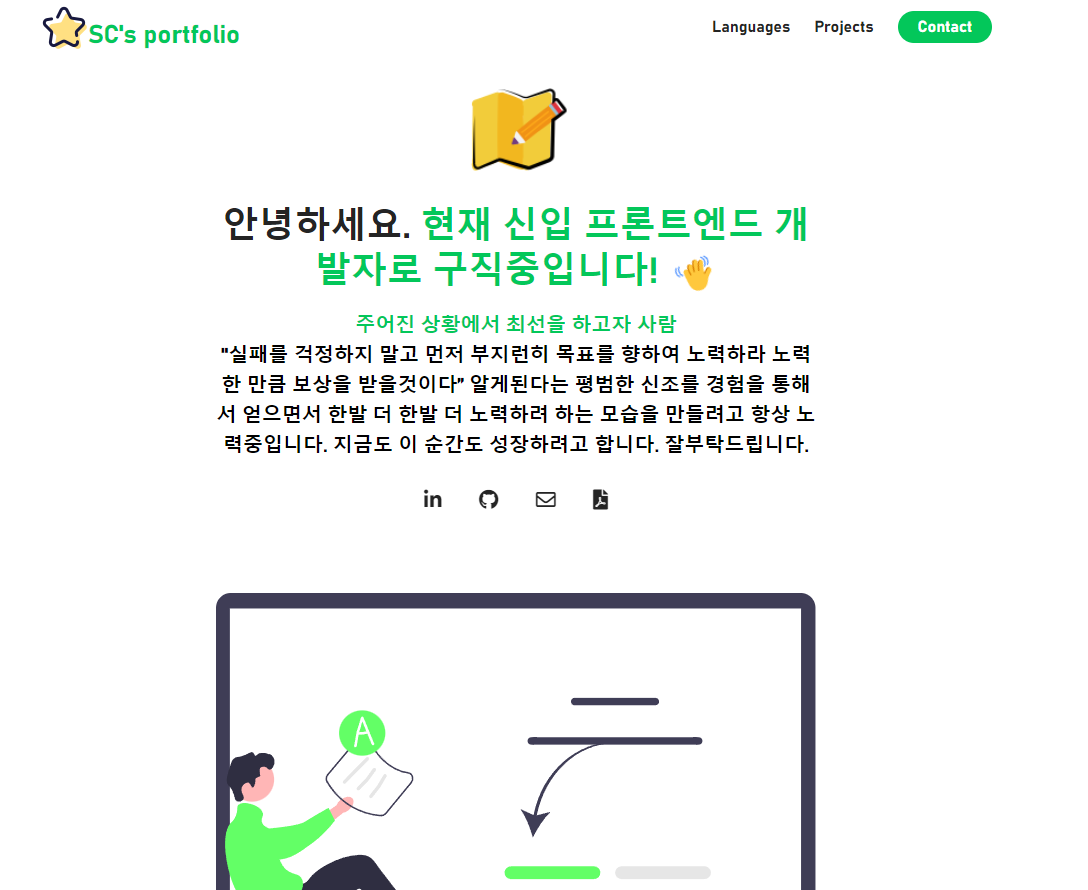
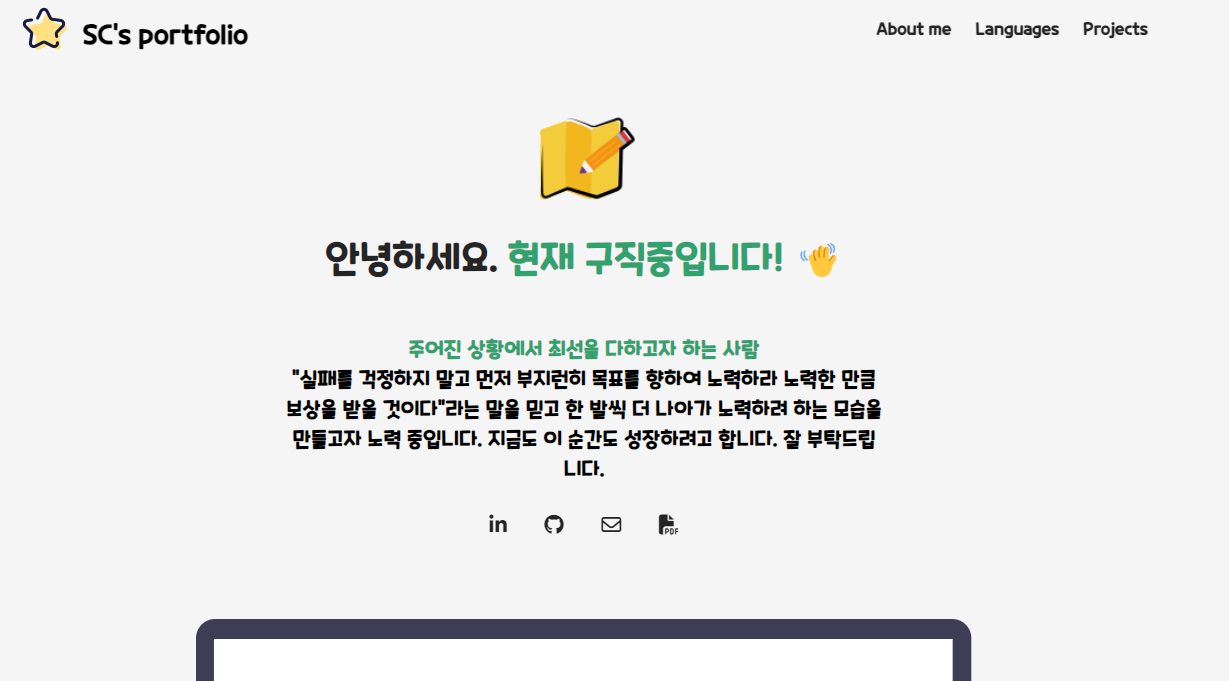
commit_03

diff --git a/index.html b/index.html
@@ -12,18 +12,25 @@
     <title>sc's portfolio</title>
     <link rel="stylesheet" href="./main.css" />
     <script
-      src="https://kit.fontawesome.com/c8e4d183c2.js"
+      src="https://kit.fontawesome.com/acbf87672f.js"
       crossorigin="anonymous"
     ></script>
   </head>
   <body>
-    <section id="about-me">
-      <nav>
+    <div class="header">
+      <nav class="navbar">
         <div class="personal__logo">
-          <img class="nav_logo" src="assets/icons/icons8-star.png" alt="" />SC's
-          portfolio
+          <img class="nav_logo" src="assets/icons/icons8-star.png" alt="" />
+          <span>SC's portfolio</span>
         </div>
         <ul class="nav__link--list">
+          <li class="nav__link">
+            <a
+              href="#about-me"
+              class="nav__link--anchor link__hover-effect link__hover-effect--black"
+              >About me</a
+            >
+          </li>
           <li class="nav__link">
             <a
               href="#languages"
@@ -38,15 +45,14 @@
               >Projects</a
             >
           </li>
-          <li class="nav__link">
-            <a
-              href="mailto:email@email.com"
-              class="nav__link--anchor nav__link--anchor-primary"
-              >Contact</a
-            >
-          </li>
         </ul>
+
+        <a class="navbar__toggleBtn">
+          <i class="fa-solid fa-bars"></i>
+        </a>
       </nav>
+    </div>
+    <section id="about-me">
       <div class="flex flex-1">
         <div class="about-me__info row">
           <div class="about-me__info--container">
@@ -58,9 +64,10 @@
             </figure>
             <h1 class="about-me__info--title">
               안녕하세요.
-              <span class="text--green"
-                >현재 신입 프론트엔드 개발자로 구직중입니다!</span
-              >&nbsp;<span class="wave">👋</span>
+              <span class="text--green">현재 구직중입니다!</span>&nbsp;<span
+                class="wave"
+                >👋</span
+              >
             </h1>
             <p class="about-me__info--para">
               <strong class="text--green"
@@ -111,10 +118,7 @@
                   class="language__img"
                 />
               </figure>
-              <span class="language__name"
-                >HTML<br />Semantic Web에 대한 이해를 바탕으로 적절한 Semantic
-                Tag를 사용합니다.</span
-              >
+              <span class="language__name">HTML</span>
             </div>
             <div class="language">
               <figure class="language__img--wrapper">
@@ -124,10 +128,7 @@
                   class="language__img"
                 />
               </figure>
-              <span class="language__name"
-                >CSS<br />프로젝트의 디자인에 알맞은 스타일을 적용할 수
-                있습니다.</span
-              >
+              <span class="language__name">bootstrap<br />Sass</span>
             </div>
             <div class="language">
               <figure class="language__img--wrapper">
@@ -137,10 +138,7 @@
                   class="language__img"
                 />
               </figure>
-              <span class="language__name"
-                >JavaScript<br />jS 문법 바탕으로 적절한 로직을 구현 할 수 있고
-                ES6 문법을 활용할 수 있습니다.</span
-              >
+              <span class="language__name">JavaScript</span>
             </div>
             <div class="language">
               <figure class="language__img--wrapper">
@@ -151,9 +149,8 @@
                 />
               </figure>
               <span class="language__name"
-                >React<br />
-                컴포넌트의 재사용성을 고려해 컴포넌트를 구현할 수 있고 함수형
-                컴포넌트를 선호합니다.
+                >React-Query<br />
+                redux-toolkit
               </span>
             </div>
           </div>
@@ -610,11 +607,16 @@
           >
         </div>
         <div class="footer__copyright">
-          © 2023. Untitled. All rights reserved.<br />
-          포트폴리오 용도로 제작하였으며 상업적인 용도로 사용하지 않음을
-          밝힙니다.
+          © 2024. Untitled. All rights reserved.<br />
         </div>
       </div>
     </footer>
+    <a href="#" class="arrow-up-btn">
+      <figure>
+        <img src="./assets/icons/icons8-self-improvement-64.png" alt="" />
+      </figure>
+    </a>
+
+    <script src="main.js"></script>
   </body>
 </html>

diff --git a/main.css b/main.css
@@ -1,9 +1,12 @@
-@import url("https://fonts.googleapis.com/css2?family=Noto+Sans+KR:wght@100;300;400;500;700&family=REM:ital,wght@0,100;0,200;1,100;1,200&display=swap");
-@import url("https://fonts.googleapis.com/css2?family=Preahvihear&display=swap");
-@import url("https://fonts.googleapis.com/css2?family=Noto+Sans+KR:wght@100;300;400;500;700;900&display=swap");
-
+@font-face {
+  font-family: "CookieRun-Regular";
+  src: url("https://fastly.jsdelivr.net/gh/projectnoonnu/noonfonts_2001@1.1/CookieRun-Regular.woff")
+    format("woff");
+  font-weight: normal;
+  font-style: normal;
+}
 * {
-  font-family: "Lato", sans-serif;
+  font-family: "CookieRun-Regular";
   padding: 0;
   margin: 0;
   box-sizing: border-box;
@@ -22,7 +25,7 @@ h6,
 span {
   color: #242424;
   text-align: center;
-  line-height: 1.25;
+  line-height: 1.8;
 }
 
 h1 {
@@ -89,11 +92,12 @@ li {
 }
 
 .text--green {
-  color: #03c75a;
+  color: #30a26e;
 }
 
 section:nth-child(even) {
-  background-color: #f8f8f8;
+  background-color: #f5f5f5;
+  padding-bottom: 3rem;
 }
 
 .section__title {
@@ -104,17 +108,37 @@ section:nth-child(even) {
 
 .nav_logo {
   vertical-align: bottom;
+  padding-right: 0.3em;
 }
 
-nav {
+.header {
+  position: fixed;
+  top: 0;
+  right: 0;
+  left: 0;
+  z-index: 10;
+  transition: all 300ms ease;
+}
+
+.navbar {
   height: 100px;
   width: 100%;
-  max-width: 1000px;
+  max-width: 1200px;
   margin: 0 auto;
   display: flex;
   justify-content: space-between;
   align-items: center;
-  padding: 0 12px;
+  padding: 1.25rem 1.5rem;
+}
+
+.header.fixed {
+  background-color: #30a26e;
+
+  box-shadow: 0 2px 8px hsla(0, 0%, 80%, 0.8);
+}
+
+.header.fixed span {
+  color: #fff;
 }
 
 .nav__link--list {
@@ -128,7 +152,7 @@ nav {
 }
 
 .nav__link--anchor-primary {
-  background-color: #03c75a;
+  background-color: #30a26e;
   padding: 8px 20px;
   border-radius: 50px;
   color: white;
@@ -141,7 +165,6 @@ nav {
 
 .personal__logo {
   font-size: 1.6em;
-  color: #03c75a;
   margin: 0 12px;
   font-weight: bold;
 }
@@ -157,6 +180,7 @@ nav {
 .about-me__info {
   display: flex;
   flex-direction: column;
+  margin-top: 8rem;
 }
 
 .about-me__info--container {
@@ -171,9 +195,6 @@ nav {
 .about-me__picture--icon {
   width: 100px;
   height: 100px;
-  /* border-radius: 50%;
-  overflow: hidden;
-  box-shadow: 0 8px 16px rgba(0, 0, 0, 0.16); */
   margin-bottom: 28px;
   animation: animate-profile-picture 800ms 200ms backwards;
 }
@@ -197,7 +218,7 @@ nav {
 }
 
 .about-me__info--title {
-  margin-bottom: 16px;
+  margin-bottom: 1.5em;
   animation: fade-up 650ms 400ms backwards;
 }
 .about-me__info--para {
@@ -416,7 +437,7 @@ footer {
   flex-direction: column;
   align-items: center;
   justify-content: center;
-  padding: 8% 0;
+  padding: 4% 0;
 }
 
 .footer__logo--img {
@@ -435,8 +456,6 @@ footer {
 }
 
 .footer__copyright {
-  height: 11rem;
-  padding-top: 3rem;
   text-align: center;
 }
 
@@ -459,12 +478,51 @@ footer {
   opacity: 1;
 }
 
+.arrow-up-btn {
+  position: fixed;
+  right: 3.5rem;
+  bottom: 3.5rem;
+  display: block;
+  width: 3rem;
+  height: 3rem;
+  border-radius: 0.5rem;
+  opacity: 0.8;
+}
+
+.navbar__toggleBtn {
+  display: none;
+  position: absolute;
+  right: 32px;
+  font-size: 24px;
+  color: #000;
+}
+
 /* Small phones, tablets, large smartphones */
-@media (max-width: 768px) {
-  nav {
-    height: 68px;
+@media screen and (max-width: 768px) {
+  .navbar__toggleBtn {
+    display: block;
+  }
+  .nav__link--list {
+    display: none;
+    justify-content: center;
+    align-items: center;
+    width: 100%;
+    padding: 2.5rem 0 0 0;
+    animation: fade-up 200ms 200ms backwards;
   }
 
+  .personal__logo,
+  .nav__link--list.active {
+    display: flex;
+  }
+
+  .navbar {
+    flex-direction: column;
+  }
+
+  .nav__link {
+    margin-bottom: 1rem;
+  }
   h1 {
     font-size: 28px;
   }
@@ -488,7 +546,7 @@ footer {
 }
 
 /* SMALL PHONES */
-@media (max-width: 480px) {
+@media screen and (max-width: 480px) {
   .nav__link:not(:last-child) {
     display: none;
   }

diff --git a/main.js b/main.js
@@ -1,0 +1,27 @@
+// 스크롤 시 navbar 색상 바꾸기
+const header = document.querySelector(".header"); //from HTML
+const headerHeight = header.getBoundingClientRect().height;
+
+document.addEventListener("scroll", () => {
+  const scrollY = window.scrollY;
+
+  //navbar의 높이가 현재까지 스크롤 된 Y값보다 작다면 navbar에 fixed라는 클래스를 넣어라.
+  //1) 삼항연산자 사용
+  headerHeight < scrollY
+    ? header.classList.add("fixed")
+    : header.classList.remove("fixed");
+
+  //2) if문 사용
+  if (window.scrollY > headerHeight) {
+    header.classList.add("fixed");
+  } else {
+    header.classList.remove("fixed");
+  }
+});
+
+const toggleBtn = document.querySelector(".navbar__toggleBtn");
+const list = document.querySelector(".nav__link--list");
+
+toggleBtn.addEventListener("click", () => {
+  list.classList.toggle("active");
+});
